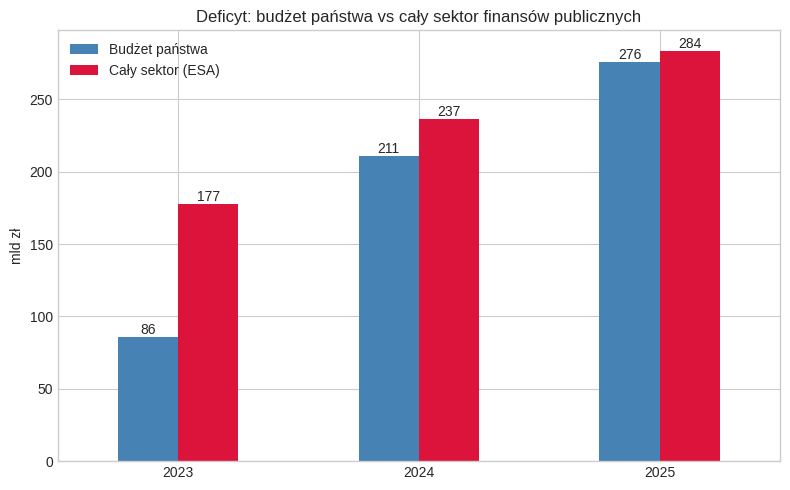
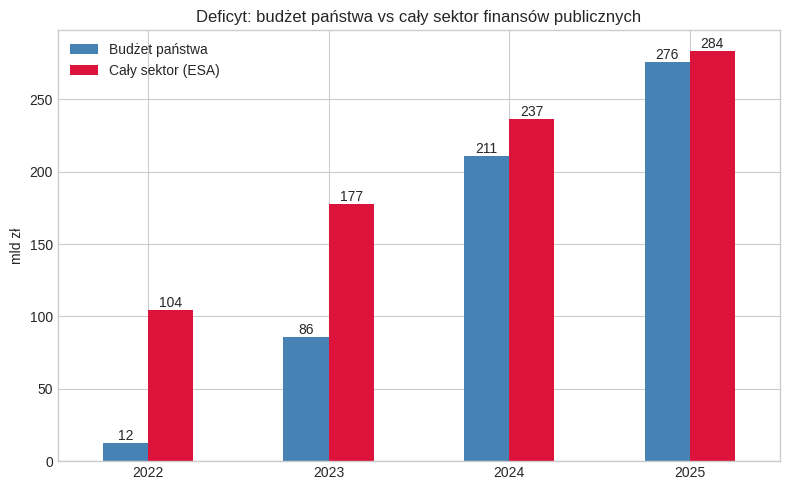
dodanie notatek

diff --git a/podstawy_finansow/prezentacja/notes.md b/podstawy_finansow/prezentacja/notes.md
@@ -1,0 +1,111 @@
+### 1. czym jest budzet państwa 
+
+Roczny plan dochodów i wydatkóœ państwa oraz sposobu sfinansowania różnicy między niemi. ma formę ustawy (ustawy budżetowej), którą co roku uchwala sejm 
+
+budżet to tylko część sektora finansów publiczny. Poza nim są samorządy, ZUS, NFZ i fundusze. różnice tą pokazujemy na wykresie budżet państawa vs cały sektor 
+
+
+### 2. Funkcje budżetu 
+* fiskalna: gromadzienie poieniędzy, głównie z podatkóœ 
+* redystrybucja: przesuwanie pieniędzy między grupami społecznymi 
+* stymulująca: finansowanie dóbr publicznych, których rynek sam nie dstarczy np wojsko, sądy, drogi 
+* stabilizacyjn: łagodzenie kryzysów 
+* kontrolna: sejm i obywatele widzą, an co idą publiczne pieniądze 
+
+funkcja kontrolna to sedno artykułu Serowańca. Wydatki przeniesione do funduszy w BGK tę funkcję osłabiają 
+
+### 3. zasady budżetowe 
+
+| zasada | co oznacza | jak jest łamana
+| --- | --- | --- | 
+| zupełnosć | budżet obejmuje wszystkie dochody i wydatki państwa | wydatki funduszy BGK są poza budżetem 
+| jedność | wszystko jest w jednym dokumencie | polska ma osobny budżet europejskich i fundusze poza budżetem 
+| jawność | każdy może sprawdzić budżet i jego wykonanie | utajnony plan funduszu wsparcia sił zbrojnych 
+| roczność | budżet obowiązuje przez rok budżetowy | wydatki niewygasające przeniesione na koleny rok 
+
+
+inne rzadziej omawiane za sady to między innymi:
+* uprzedniość - budżet uchwala sie przed początkiem roku 
+* szczegółowość - wydatki są rozpisane na działy, rozdziały i paragrafy 
+
+### 4. dochodzy i wydatki 
+dochody budżetu państwa dzielą sie na trzy grupy: 
+* podatkowe: VAT, akcyza, CIT, PIT, podatek bankowy, od gier, ... 
+* niepodatkowe: cło, dywidendy ze spółek skarby państwa, opłaty, grzywny, ...
+* środki z UE i inne bezzwrotne 
+
+    dochody to nie przychody 
+
+dochody - pieniądze, które państwo dostaje bezzwrotnie 
+przychody - pieniądze pożyczone, np ze sprzedady obligacji, które trzeba będzie oddać 
+
+wydatki można dzielić na dwa sposoby: 
+* według działu - czyli na jaki cel (obrona, zdrowie, oświata) (wykres kołowy)
+* według rodzaju - bieżaće (pensje, świadczenia, odsetki) i majatkowe (inwestycje)
+
+wydatki sztywne - ich wysokość wynika z innych ustaw np emerytury, 800+ czy odsetki od długu, więc rzząd nie może ich dowolnie zmienić pry pisaniu budżetu. Większość wydatkóœ budżetu to wydatki sztywne. Dlatego trudno szybko obniżyć deficyt 
+
+### 5. Deficyt i dług 
+* deficyt = wydatki - dochody w danym roku 
+* dług publiczny - suma zaciagniętych i niespłaconych zobowiazań, czyli efekty wszystkich wcześniejszych deficytów 
+* deficyt finansuje sie głównie emisją obligacji i bonóœ skarbowych. Konstytucja zabrania finasowania deficytu kredytem z NBP (art.220)
+
+##### Dwie metody liczenia deficytu 
+* krajowa (MF): deficyt dudżetu państwa i państwowy dług publiczny (PDP)
+* unijna, ESA (GUS i Eurostat): deficyt i dług całego sektora (EDP)
+
+### 6. Reguły fiskalne (limity)
+* konstytucja art 216 ust. 5: państwowy dług publiczny nie może przekroczyć 60%. Liczony jest metodą krajową, a przez funkdusze poza budżetem ten limit dało sie obchodzić 
+* progi ostrożnościowe w ustawie o finansach publicznych : po przekroczeniu kolejnych progów długu (43%, 48%, 55% PKB) rząd musi stosować coraz ostrzejsze ograniczenia 
+* stabilizująca regułą wydatkowa: ogranicza o ile mogą rosnąć wydatki 
+* UE - deficyt do 3% PKB, dług do 60% PKB (oba liczone metodą ESA). kraj który przekracza limit deficytu, zostaje objęty procedurą nadmiernego deficytu 
+
+Polska jest objęta procedurą nadmiernego deficytu od 2024 i musi przedstawic plan obniżenia deficytu 
+
+### 7 Rola Ministerstwa Finansów i Sejmu (procedura budżetowa)
+1. MF zbiera potrzeby ministerstw, przygotowuje prognozy i ustala limity wydatków 
+2. rada ministrów przyjmuje projekt i do 30 września składa go w sejmie.
+3. sejm rozpatruje projekt. Główną pracę wykonuje komisja finansów publicznych. rząd może przesuwać pieniądze między pozycjami, ale nie może zwiększyć deficytu ponad to, co zaproponował rząd (art. 220)
+4. senat ma 20 dni na poprawki, ale nie może odrzucić budżetu 
+5. prezydent ma 7 dni na podpis. Nie może zawetować budżetu, może tylko skierować go do trubunału konstytucyjnego
+6. wykonanie: budżet wykonuje rząd, a MF go kooordynuje i co miesiąc publikuje dane o wykonaniu
+7. Knotrola: rząd przedstawia sprawozdanie z wykonania budżetu (do 31 mają następnego roku), NIK je analizuje
+
+----
+
+# notatki do artykułu
+
+### o czym jest 
+Maciej Serowaniec, prawnik konstytucjonalista z UMK w Toruniu, artykuł z 2023 roku w czasopiśmie Politics and Governance. Autor pyta: czy kryzys, taki jak pandemia albo wojna w Ukrainie, usprawiedliwia omijanie zasad przejrzystego budżetu?
+
+### Główna teza 
+W latach 2020–2022 polski rząd finansował dużą część wydatków poza budżetem państwa, głównie przez fundusze w Banku Gospodarstwa Krajowego. Autor nazywa to debudżetyzacją. Oficjalny budżet wyglądał dzięki temu dobrze, ale Sejm i obywatele stracili kontrolę nad dużą częścią publicznych pieniędzy.
+
+### jak to robiono 
+1. Fundusze w BGK. Na przykład Fundusz Przeciwdziałania COVID-19, z którego dziś finansuje się już rzeczy niezwiązane z pandemią, np. mrożenie cen energii. Albo Fundusz Wsparcia Sił Zbrojnych, którego plan finansowy w pewnym momencie utajniono.
+
+2. Obligacje zamiast dotacji. Zamiast dać instytucji pieniądze z budżetu, państwo dawało jej obligacje, a ta je sprzedawała. W budżecie nie było widać wydatku. Dostawały je m.in. media publiczne i uczelnie.
+
+3. Wydatki niewygasające. Pieniądze zaplanowane na dany rok można było wydać w następnym, co łamie zasadę roczności.
+
+### najważniejsze liczby 
+* W 2022 roku oficjalny deficyt budżetu państwa wyniósł ok. 12 mld zł, a prawdziwy deficyt był ok. dziesięć razy większy. Budżet pokazywał tylko ok. 12,5% faktycznego deficytu.
+* Wydatki funduszy w BGK odpowiadały 21% wydatków budżetu państwa.
+* Różnica między długiem liczonym metodą UE a metodą krajową wzrosła z ok. 10 mld euro przed pandemią do 67 mld euro w 2022 roku.
+* Według Eurostatu Polska była pierwsza wśród dużych krajów UE pod względem deficytu poza kontrolą parlamentu.
+
+### wnioski autora 
+* Budżet państwa przestał pełnić funkcję podstawowego planu finansowego państwa.
+* NIK po raz pierwszy w historii negatywnie oceniła wykonanie budżetu (za 2022 rok).
+* Rekomendacje: przenieść wydatki z powrotem do budżetu, ograniczyć fundusze, powołać niezależną radę fiskalną i liczyć dług jedną metodą zamiast dwóch.
+
+### połączenie z naszym tematem
+Od 2023 roku część wydatków wróciła do budżetu. Dlatego deficyt budżetu państwa skoczył z 12 do 276 mld zł, a różnica między budżetem a całym sektorem prawie zniknęła (w 2025 r.: 276 vs 284 mld zł). Powstała też Rada Fiskalna, która po raz pierwszy opiniowała projekt budżetu na 2027 rok. Problem nie zniknął jednak całkiem, bo dług funduszy w BGK nadal rośnie.
+
+---- 
+
+# co ma małgosia w notatkach czego tutaj nie ma
+
+* mamy jedność formalną i materialną. tu jest opisana tylko jedność fomalna 
+* zasada równowagi - wydatki nei powinny być wyższe niż dochowy. Polksa łanie tą zasadę co roku 
+* Dochody są prognozą. Notatki słusznie mówią, że dochody wpisuje się w wysokości prognozowanej, więc wykonanie może być wyższe albo niższe. Uzupełnię: wydatki w ustawie to górny limit, a deficyt to maksimum („nie większy niż 271,7 mld zł”). Dlatego w 2025 r. wydatki wykonano w 94,4%, a deficyt i tak był niższy od planu.Więc niewykonanie dochodów to problem, a niewykonanie wydatkóœ to normalna sytuacja 

diff --git a/podstawy_finansow/prezentacja/presentation_proposal.md b/podstawy_finansow/prezentacja/presentation_proposal.md
@@ -1,0 +1,1 @@
+* 
